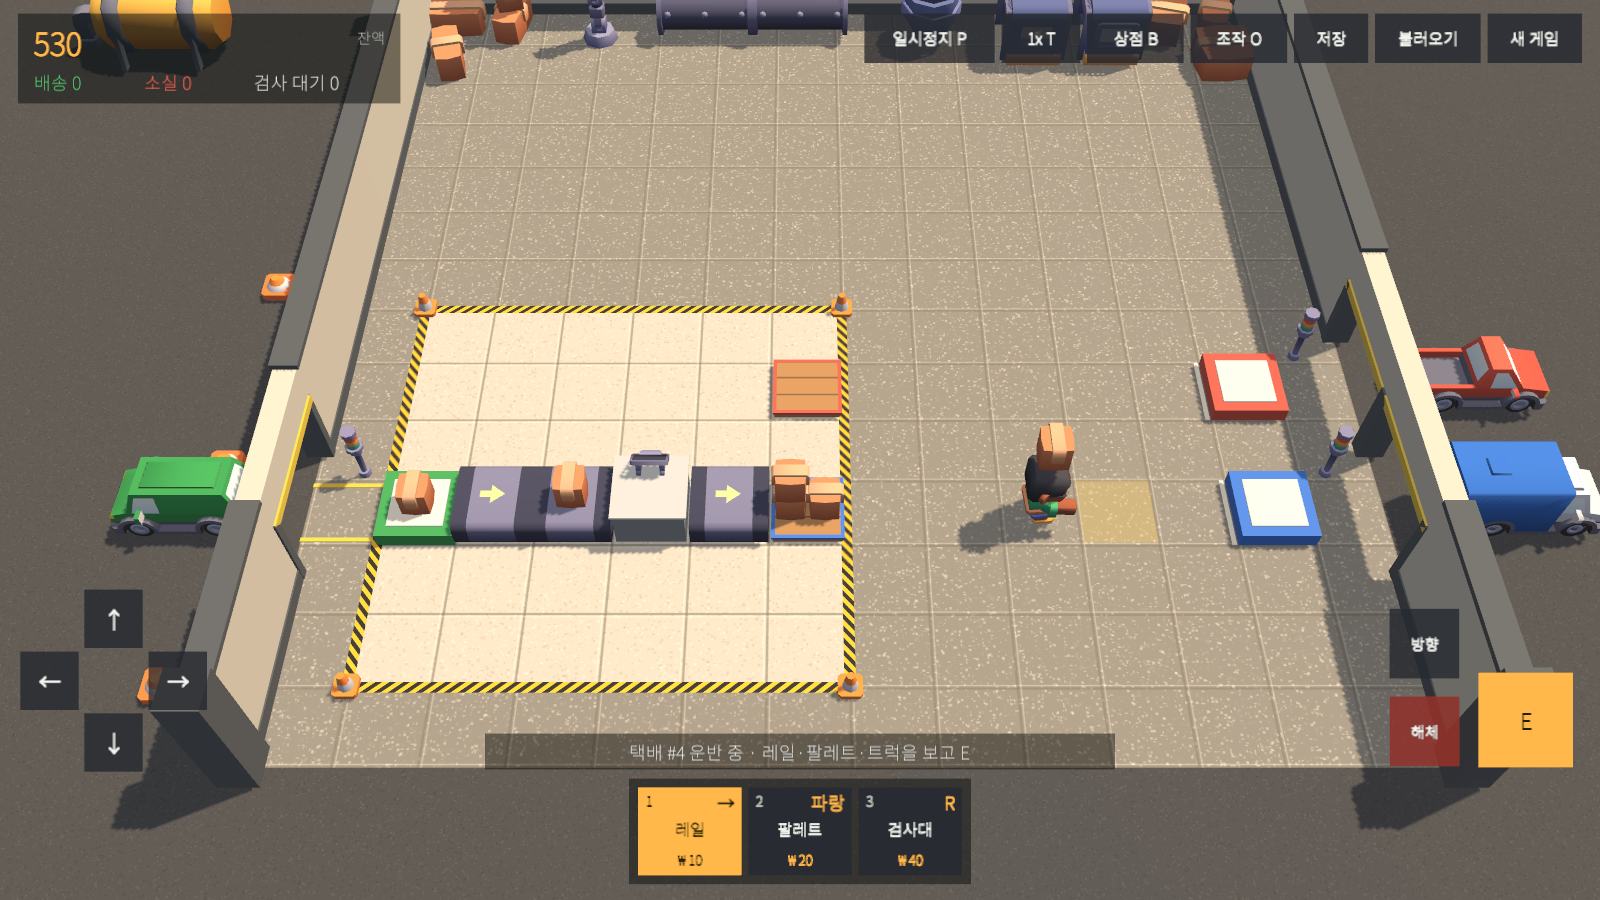
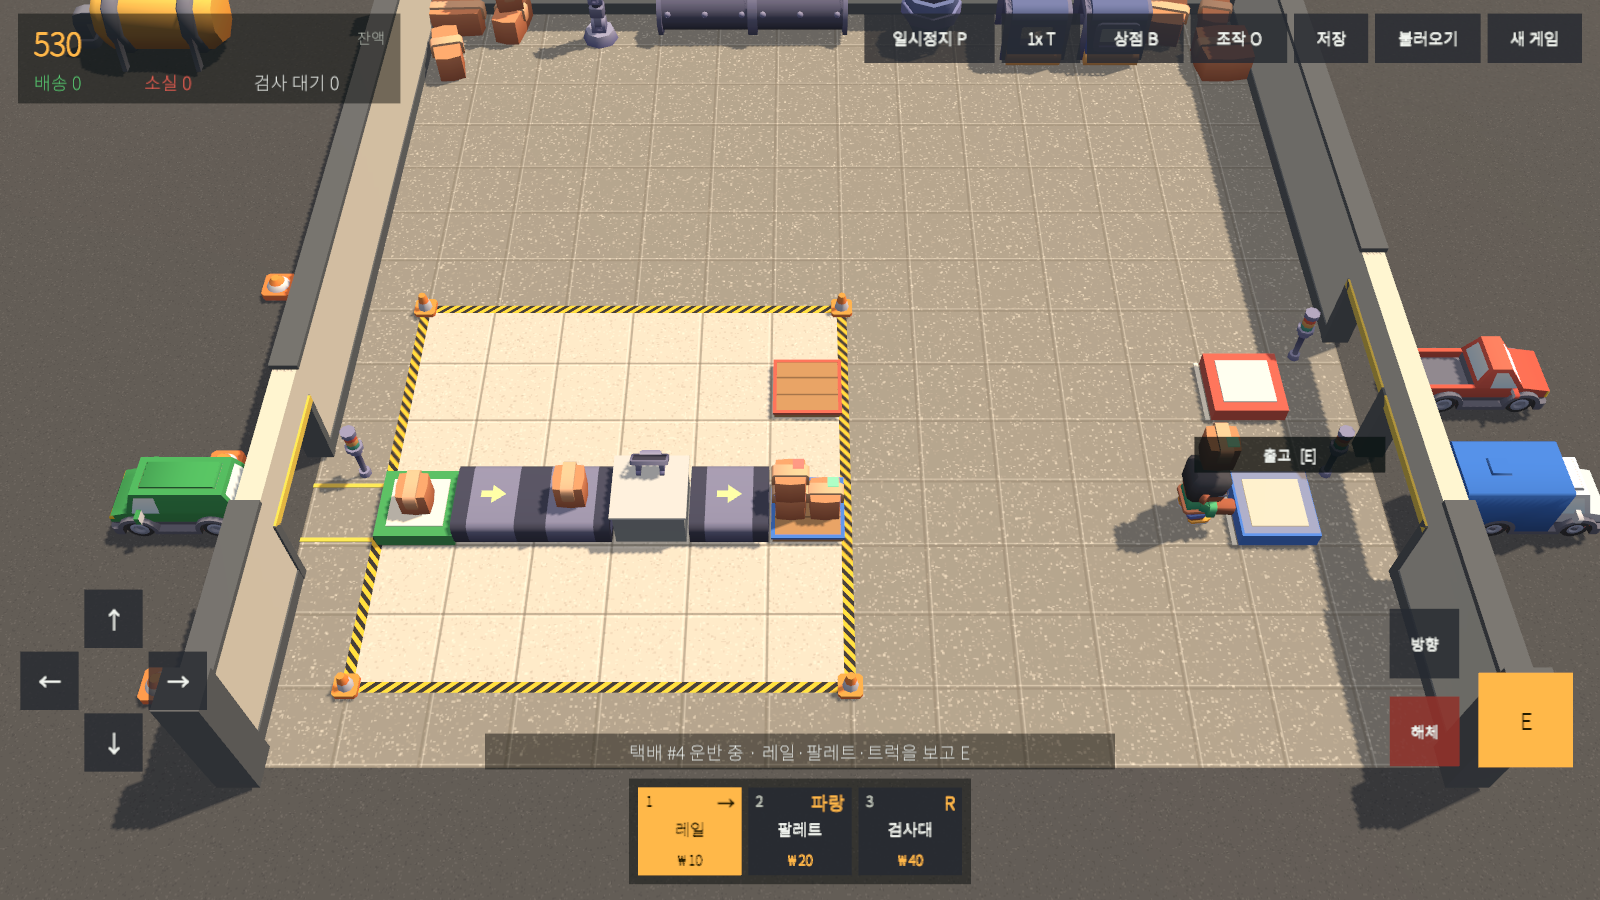
fix(game): Korean IME input, delivery outcome toasts, visible inspection marks
- InputController: disable IME on the keyboard (and re-apply on keyboard
  add/reconnect) so keys reach the Input System with the 한글 input source.
  Bindings stay physical key paths (<Keyboard>/w, <Keyboard>/1..6).
- HudController: toast every delivery outcome with reason and delta
  (green for success, red for penalty), re-binding on SessionReplaced;
  dock prompt warns "출고 (미검사 −10)" / "반품 (미검사 −5)" for
  uninspected packages; help drawer explains inspection; LastToast for tests.
- PackageViews: green "Check" mark for inspected-approved boxes beside the
  red rejected stamp, via SetMarks on rails, pallet piles and carried box.
- Tests: smoke test for uninspected hand delivery prompt/toast; screenshot
  demo shows inspected pallet/carried boxes and the dock prompt.

Changed region(s): [[0.5938, 0.4667, 0.875, 0.6222]]

diff --git a/Assets/Scripts/Game/HudController.cs b/Assets/Scripts/Game/HudController.cs
@@ -20,6 +20,10 @@ namespace ParcelFactory.Game
         private readonly List<Text> slotPrices = new List<Text>();
         private readonly List<Text> slotKeys = new List<Text>();
         private float toastUntil;
+        private ConveyorSim boundSim;
+        /// <summary>마지막으로 띄운 토스트 문구(테스트용).</summary>
+        public string LastToast { get; private set; }
+        public enum ToastKind { Info, Good, Bad }
         private Text touchRotateLabel;
         private InputController input;
 
@@ -54,9 +58,41 @@ namespace ParcelFactory.Game
             input.ToggleSpeed += () => { boot.Session.Speed = boot.Session.Speed >= 2f ? 1f : 2f; };
             input.ToggleHelp += () => SetHelp(!help.gameObject.activeSelf);
             input.Escape += () => { if (help.gameObject.activeSelf) SetHelp(false); };
-            boot.SessionReplaced += s => { s.Unlocks.Unlocked += _ => RefreshHotbar(); RefreshHotbar(); };
+            boot.SessionReplaced += s => { s.Unlocks.Unlocked += _ => RefreshHotbar(); BindSim(s.Sim); RefreshHotbar(); };
             boot.Session.Unlocks.Unlocked += _ => RefreshHotbar();
+            BindSim(boot.Session.Sim);
             RefreshHotbar();
+        }
+
+        /// <summary>배송 결과 토스트를 받을 시뮬레이션을 바꾼다. 이전 세션 구독은 끊는다.</summary>
+        private void BindSim(ConveyorSim sim)
+        {
+            if (boundSim == sim) return;
+            if (boundSim != null) boundSim.PackageDelivered -= OnPackageDelivered;
+            boundSim = sim;
+            if (boundSim != null) boundSim.PackageDelivered += OnPackageDelivered;
+        }
+
+        private void OnDestroy() => BindSim(null);
+
+        private void OnPackageDelivered(Package p, DeliveryOutcome outcome, int delta) =>
+            Toast(DeliveryMessage(outcome), DeliveryScoring.IsSuccess(outcome) ? ToastKind.Good : ToastKind.Bad);
+
+        /// <summary>배송 결과 문구: 이유와 잔액 변화. 벌점이면 왜 깎였는지 알려 준다.</summary>
+        public static string DeliveryMessage(DeliveryOutcome o)
+        {
+            switch (o)
+            {
+                case DeliveryOutcome.Delivered: return "정상 출고 +15";
+                case DeliveryOutcome.ReturnedBad: return "불량 반품 +5";
+                case DeliveryOutcome.UninspectedToOutlet: return "검사대를 거치지 않은 택배 · 출고 −10";
+                case DeliveryOutcome.UninspectedToReturn: return "검사대를 거치지 않은 택배 · 반품 −5";
+                case DeliveryOutcome.RejectedToOutlet: return "거부한 택배를 출고 −10";
+                case DeliveryOutcome.BadToOutlet: return "불량을 승인해 출고 −20";
+                case DeliveryOutcome.GoodToReturn: return "정상 택배를 반품 −5";
+                case DeliveryOutcome.ApprovedToReturn: return "승인한 택배를 반품 −5";
+                default: return o.ToString();
+            }
         }
 
         private void BuildTopLeft()
@@ -141,8 +177,8 @@ namespace ParcelFactory.Game
 
         private void BuildHelp()
         {
-            help = UiKit.PanelBox("Help", Root, new Vector2(1f, 1f), new Vector2(1f, 1f), new Vector2(1f, 1f), new Vector2(-16f, -60f), new Vector2(330f, 196f)).rectTransform;
-            helpText = UiKit.Label("Text", help, "WASD/방향키 이동 · E 집기·놓기·설치·검사 · X 해체\n1~6 도구 선택 · R 방향(팔레트는 색) · Q 빈손\n검사대 위 택배는 검사 전까지 멈춥니다.\n팔레트에서 집어 트럭으로: 정상은 출고, 불량은 반품.\n입고 3초마다 1개 · 배송 +15 · 해체 2초 후 80% 환불", 12, UiKit.Muted, TextAnchor.UpperLeft);
+            help = UiKit.PanelBox("Help", Root, new Vector2(1f, 1f), new Vector2(1f, 1f), new Vector2(1f, 1f), new Vector2(-16f, -60f), new Vector2(330f, 228f)).rectTransform;
+            helpText = UiKit.Label("Text", help, "WASD/방향키 이동 · E 집기·놓기·설치·검사 · X 해체\n1~6 도구 선택 · R 방향(팔레트는 색) · Q 빈손\n검사대 위 택배는 검사 전까지 멈춥니다.\n팔레트에서 집어 트럭으로: 정상은 출고, 불량은 반품.\n입고 3초마다 1개 · 배송 +15 · 해체 2초 후 80% 환불\n택배는 검사대(3)에서 E로 검사한 뒤 출고/반품하세요. 검사 없이 트럭에 넣으면 벌점입니다.", 12, UiKit.Muted, TextAnchor.UpperLeft);
             helpText.rectTransform.offsetMin = new Vector2(12f, 52f); helpText.rectTransform.offsetMax = new Vector2(-12f, -8f);
             var close = UiKit.Button("Close", help, "닫기", new Vector2(100f, 36f), () => SetHelp(false));
             var crt = close.GetComponent<RectTransform>();
@@ -185,9 +221,14 @@ namespace ParcelFactory.Game
         public static string DemolishMessage(BuildResult r) =>
             r == BuildResult.AlreadyDemolishing ? "이미 해체 중입니다" : r == BuildResult.Occupied ? "팔레트를 먼저 비우세요" : "해체할 수 있는 부품이 아닙니다";
 
-        public void Toast(string message)
+        public void Toast(string message) => Toast(message, ToastKind.Info);
+
+        /// <summary>잠시 뜨는 알림. Good은 초록, Bad는 빨강 글자.</summary>
+        public void Toast(string message, ToastKind kind)
         {
+            LastToast = message;
             toastText.text = message;
+            toastText.color = kind == ToastKind.Good ? UiKit.Good : kind == ToastKind.Bad ? UiKit.Bad : UiKit.Fg;
             toastUntil = Time.unscaledTime + 1.8f;
             toast.gameObject.SetActive(true);
         }
@@ -206,6 +247,10 @@ namespace ParcelFactory.Game
                 case InteractResult.Standing: Toast("서 있는 자리에는 놓을 수 없습니다"); break;
             }
         }
+
+        /// <summary>트럭 도크 앞 프롬프트. 미검사 택배면 벌점을 미리 보여 준다.</summary>
+        public static string DeliverLabel(bool outlet, bool inspected) =>
+            outlet ? (inspected ? "출고" : "출고 (미검사 −10)") : (inspected ? "반품" : "반품 (미검사 −5)");
 
         private string CannotPutMessage()
         {
@@ -287,7 +332,7 @@ namespace ParcelFactory.Game
             {
                 case InteractResult.PickedUp: label = s.Grid.Get(fx, fy).Type == CellType.Pallet ? "집기 (" + s.Sim.PalletCount(fx, fy) + ")" : "집기"; break;
                 case InteractResult.PutDown: label = "놓기"; break;
-                case InteractResult.Delivered: label = s.Grid.Get(fx, fy).Type == CellType.Outlet ? "출고" : "반품"; break;
+                case InteractResult.Delivered: label = DeliverLabel(s.Grid.Get(fx, fy).Type == CellType.Outlet, w.Carrying != null && w.Carrying.Inspected); break;
                 case InteractResult.InspectionRequired: label = "검사"; break;
                 case InteractResult.Placed: label = (tool.Value.Type == CellType.Pallet ? KindName(Tool.KindOf(tool.Value.Direction)) + " " : "") + Name(tool.Value.Type) + " 설치"; break;
             }

diff --git a/Assets/Scripts/Game/PackageViews.cs b/Assets/Scripts/Game/PackageViews.cs
@@ -37,27 +37,47 @@ namespace ParcelFactory.Game
             return c.IsBuilding || c.IsDock || c.Type == CellType.Inlet ? SurfaceHeight(c.Type) : 0f;
         }
 
+        /// <summary>검사 통과 표시(초록) 색. 거부 도장(빨강)과 같은 자리에 놓이고 둘 중 하나만 보인다.</summary>
+        public static readonly Color CheckColor = new Color(0x3F / 255f, 0xA3 / 255f, 0x5A / 255f);
+        public static readonly Color StampColor = new Color(0.85f, 0.2f, 0.15f);
+
         public static GameObject MakeBox(ModelCatalog cat, Transform parent)
         {
             var go = new GameObject("Package");
             go.transform.SetParent(parent, false);
             var m = Object.Instantiate(cat.Get("box-small"), go.transform);
             m.transform.localScale = Vector3.one * 0.8f;
-            var stamp = GameObject.CreatePrimitive(PrimitiveType.Cube);
-            Object.Destroy(stamp.GetComponent<Collider>());
-            stamp.name = "Stamp";
-            stamp.transform.SetParent(go.transform, false);
-            stamp.transform.localPosition = new Vector3(0.1f, 0.46f, 0.08f);
-            stamp.transform.localScale = new Vector3(0.14f, 0.02f, 0.14f);
-            stamp.GetComponent<Renderer>().material = MaterialLibrary.Emissive(new Color(0.85f, 0.2f, 0.15f), 1.2f);
-            stamp.SetActive(false);
+            Mark(go.transform, "Stamp", StampColor);
+            Mark(go.transform, "Check", CheckColor);
             return go;
         }
 
-        public static void SetStamp(GameObject box, bool on)
+        /// <summary>상자 윗면의 납작한 표시. 꺼진 채로 만든다.</summary>
+        private static void Mark(Transform box, string name, Color color)
         {
-            var s = box.transform.Find("Stamp");
-            if (s != null) s.gameObject.SetActive(on);
+            var mark = GameObject.CreatePrimitive(PrimitiveType.Cube);
+            Object.Destroy(mark.GetComponent<Collider>());
+            mark.name = name;
+            mark.transform.SetParent(box, false);
+            mark.transform.localPosition = new Vector3(0.1f, 0.46f, 0.08f);
+            mark.transform.localScale = new Vector3(0.14f, 0.02f, 0.14f);
+            mark.GetComponent<Renderer>().material = MaterialLibrary.Emissive(color, 1.2f);
+            mark.SetActive(false);
+        }
+
+        /// <summary>검사 상태 표시: 거부되면 빨간 도장, 검사를 통과하면 초록 체크, 미검사면 둘 다 없음.</summary>
+        public static void SetMarks(GameObject box, bool inspected, bool rejected)
+        {
+            Toggle(box, "Stamp", inspected && rejected);
+            Toggle(box, "Check", inspected && !rejected);
+        }
+
+        public static void SetMarks(GameObject box, Package p) => SetMarks(box, p.Inspected, p.Rejected);
+
+        private static void Toggle(GameObject box, string name, bool on)
+        {
+            var t = box.transform.Find(name);
+            if (t != null && t.gameObject.activeSelf != on) t.gameObject.SetActive(on);
         }
 
         private void LateUpdate()
@@ -81,7 +101,7 @@ namespace ParcelFactory.Game
                 pos.y = SurfaceHeight(boot.Session.Grid.Get(p.X, p.Y).Type);
                 go.transform.position = pos;
                 go.transform.rotation = Grid3D.Facing(dir);
-                SetStamp(go, p.Inspected && p.Rejected);
+                SetMarks(go, p);
             }
             var gone = new List<int>();
             foreach (var kv in active) if (!seen.Contains(kv.Key)) gone.Add(kv.Key);

diff --git a/Assets/Tests/Game/BootSmokeTests.cs b/Assets/Tests/Game/BootSmokeTests.cs
@@ -198,6 +198,52 @@ namespace ParcelFactory.Game.Tests
         }
 
         [UnityTest]
+        public IEnumerator HandDelivery_Uninspected_ShowsPenaltyPromptAndToast()
+        {
+            var boot = GameBootstrap.Ensure();
+            try
+            {
+                yield return null;
+                var s = boot.Session;
+                s.Paused = true;
+                // 입고구에서 택배 하나를 집어 든다(이미 입고된 택배가 있으면 그것을 쓴다).
+                if (!s.Sim.TrySpawn(ParcelFactory.Core.FactoryGrid.InletX, ParcelFactory.Core.FactoryGrid.InletY, ParcelFactory.Core.PackageKind.Normal, out var p))
+                    p = s.Sim.PackageAt(ParcelFactory.Core.FactoryGrid.InletX, ParcelFactory.Core.FactoryGrid.InletY);
+                Assert.IsNotNull(p);
+                Assert.IsFalse(p.Inspected);
+                s.Sim.Take(p);
+                s.Worker.Worker.Carrying = p;
+                s.Worker.Worker.X = 10f; s.Worker.Worker.Y = 2f; s.Worker.Worker.Facing = ParcelFactory.Core.Direction.East;
+                Assert.AreEqual((11, 2), s.Worker.FacingTile());
+                yield return null;
+                var promptText = boot.Hud.Root.Find("Prompt/Text").GetComponent<UnityEngine.UI.Text>();
+                StringAssert.Contains("출고 (미검사 −10)", promptText.text);
+                Assert.AreEqual("반품 (미검사 −5)", HudController.DeliverLabel(false, false));
+                Assert.AreEqual("출고", HudController.DeliverLabel(true, true));
+                int money0 = s.Economy.Money;
+                boot.Input.Interact();
+                Assert.IsNull(s.Worker.Worker.Carrying);
+                Assert.AreEqual(money0 - 10, s.Economy.Money);
+                StringAssert.Contains("검사대를 거치지 않은", boot.Hud.LastToast);
+                // 세션을 바꾸면 새 세션의 배송도 토스트가 뜬다(이전 구독은 끊김).
+                boot.StartNewGame();
+                yield return null;
+                var s2 = boot.Session;
+                s2.Paused = true;
+                var q = new ParcelFactory.Core.PackageFactory(new System.Random(3)).Create(s2.Sim.NextId++, 10, 2, ParcelFactory.Core.Direction.East);
+                q.Bad = false; q.Inspect(false);
+                s2.Sim.DeliverCarried(q, ParcelFactory.Core.CellType.Outlet);
+                Assert.AreEqual("정상 출고 +15", boot.Hud.LastToast);
+                LogAssert.NoUnexpectedReceived();
+            }
+            finally
+            {
+                Object.Destroy(boot.gameObject);
+            }
+            yield return null;
+        }
+
+        [UnityTest]
         public IEnumerator InspectionCard_BlocksInputInSameFrame_AndSurvivesHeldPad()
         {
             var boot = GameBootstrap.Ensure();

diff --git a/Assets/Tests/Game/ScreenshotTests.cs b/Assets/Tests/Game/ScreenshotTests.cs
@@ -61,7 +61,8 @@ namespace ParcelFactory.Game.Tests
                 // (a) 시작 상태
                 yield return Capture(boot, "unity-start.png", Width, Height);
 
-                // (b) 샘플 배치: 입고 → 레일 → 검사대 → 레일 → 파랑 팔레트(5,2)에 상자 3개, 작업자는 상자를 들고 트럭 도크(11,2)로 가는 중.
+                // (b) 샘플 배치: 입고 → 레일 → 검사대 → 레일 → 파랑 팔레트(5,2)에 검사한 상자 3개(맨 위는 거부 도장, 나머지는 초록 체크),
+                //     작업자는 검사한 상자(초록 체크)를 들고 트럭 도크(11,2) 앞에 서 있다(프롬프트 "출고").
                 var s = boot.Session;
                 s.Economy.Earn(500);
                 Place(s, 1, 2, CellType.Conveyor, Direction.East);
@@ -72,13 +73,13 @@ namespace ParcelFactory.Game.Tests
                 for (int i = 0; i < 3; i++)
                 {
                     var pp = factory.Create(s.Sim.NextId++, FactoryGrid.StartBluePalletX, FactoryGrid.StartBluePalletY, Direction.East);
-                    pp.Inspect(false);
+                    pp.Inspect(i == 2); // 맨 위 상자만 거부
                     Assert.IsTrue(s.Sim.PutOnPallet(pp, FactoryGrid.StartBluePalletX, FactoryGrid.StartBluePalletY), "pile " + i);
                 }
-                var carried = factory.Create(s.Sim.NextId++, 8, 2, Direction.East);
+                var carried = factory.Create(s.Sim.NextId++, 10, 2, Direction.East);
                 carried.Inspect(false);
                 s.Worker.Worker.Carrying = carried;
-                s.Worker.Worker.X = 8.0f; s.Worker.Worker.Y = 2.0f; s.Worker.Worker.Facing = Direction.East;
+                s.Worker.Worker.X = 10.0f; s.Worker.Worker.Y = 2.0f; s.Worker.Worker.Facing = Direction.East;
                 boot.Input.SelectSlot(0);
                 yield return new WaitForSeconds(1.0f);
                 // 1초 동안 흘러간 택배와 상관없이 입구 하나, 벨트 위 하나를 확실히 둔다.

diff --git a/Assets/Scripts/Game/InputController.cs b/Assets/Scripts/Game/InputController.cs
@@ -62,11 +62,25 @@ namespace ParcelFactory.Game
         private void OnEnable()
         {
             foreach (var a in All()) a.Enable();
+            // macOS 한글 입력기 등 IME가 켜져 있으면 조합 중인 키가 Input System에 닿지 않는다. 게임 중에는 IME를 끈다.
+            // 바인딩은 모두 물리 키 경로(<Keyboard>/w, <Keyboard>/1 …)라 입력 소스와 상관없이 같은 키 자리로 동작한다.
+            DisableIme(Keyboard.current);
+            InputSystem.onDeviceChange += OnDeviceChange;
         }
 
         private void OnDisable()
         {
+            InputSystem.onDeviceChange -= OnDeviceChange;
             foreach (var a in All()) a.Disable();
+        }
+
+        private static void DisableIme(Keyboard kb) => kb?.SetIMEEnabled(false);
+
+        /// <summary>키보드가 새로 붙거나 다시 연결되면 IME 끄기를 다시 적용한다.</summary>
+        private static void OnDeviceChange(InputDevice device, InputDeviceChange change)
+        {
+            if (device is Keyboard kb && (change == InputDeviceChange.Added || change == InputDeviceChange.Reconnected || change == InputDeviceChange.Enabled))
+                DisableIme(kb);
         }
 
         private void OnDestroy()

diff --git a/Assets/Scripts/Game/WorkerView.cs b/Assets/Scripts/Game/WorkerView.cs
@@ -101,7 +101,7 @@ namespace ParcelFactory.Game
             }
 
             carried.SetActive(w.Carrying != null);
-            if (w.Carrying != null) PackageViews.SetStamp(carried, w.Carrying.Inspected && w.Carrying.Rejected);
+            if (w.Carrying != null) PackageViews.SetMarks(carried, w.Carrying);
 
             // 잠긴 칸도 걸을 수 있는 바닥이므로 커서를 보인다. 설치 불가는 Preview(Locked)로 커서 색을 바꿔 알린다.
             var (fx, fy) = ws.FacingTile();

diff --git a/Assets/Scripts/Game/CellViews.cs b/Assets/Scripts/Game/CellViews.cs
@@ -99,7 +99,7 @@ namespace ParcelFactory.Game
                 boxes[i].transform.localPosition = new Vector3(slot == 0 ? -0.22f : 0.22f, PackageViews.SurfaceHeight(CellType.Pallet) + PackageViews.PalletLayerHeight * layer, 0f);
                 boxes[i].transform.localRotation = Quaternion.identity;
                 var p = Cell.Pallet[i];
-                PackageViews.SetStamp(boxes[i], p.Inspected && p.Rejected);
+                PackageViews.SetMarks(boxes[i], p);
             }
         }
     }
